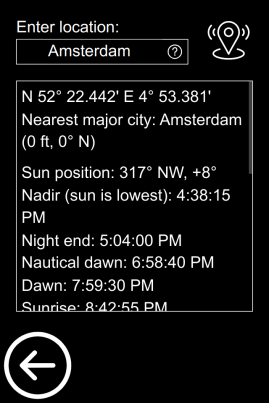
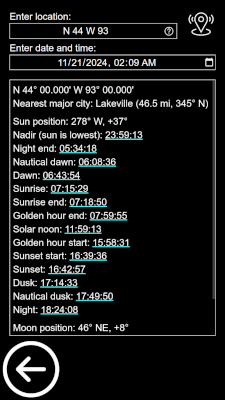
Updating documentation

Changed region(s): [[0.0, 0.03, 0.9644, 1.0]]

diff --git a/README.md b/README.md
@@ -40,7 +40,7 @@ This PWA is also an example for how to use the following:
 
 * Compass
     * A simple compass that shows your bearing.
-    * Requires a magnetometer (compass) in the device. Can work from being laid flat and up to vertical by using a 3D sensor.
+    * Requires a magnetometer (compass) in the device. When available, this uses a 3D sensor to correctly point your way.
     * Your compass is likely not calibrated and calibration detection is disabled in PWAs. To increase accuracy, slowly turn your device around in all axis several times.
 
 ![Location](screenshots/location.gif) ![Location List](screenshots/location-list.png) ![Location Edit](screenshots/location-edit.png) ![Location Navigate](screenshots/location-navigate.png)
@@ -63,6 +63,7 @@ This PWA is also an example for how to use the following:
 
 * Sun & Moon
     * Look up information for any location (by coordinates or use a major city's name).
+    * Select a date, so you can see historical information or plan for the future.
     * Show location in current coordinate system, plus direction and distance to nearest major city.
     * Shows sunrise, sunset, and current sun location.
     * Moon's rise, moon's set, and the current moon location and phase.
